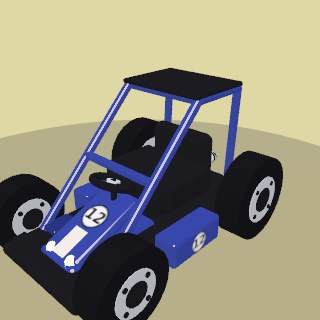
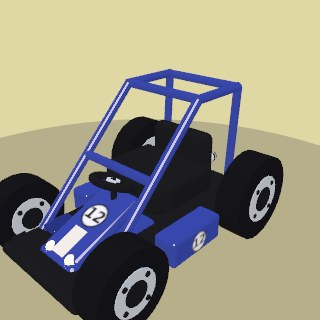
Drop the cage's roof panel — open frame shows the cat
Claude-Session: https://claude.ai/code/session_017fyz1DfGtQ1NoLSq3UX5Bd

diff --git a/src/models.js b/src/models.js
@@ -1506,9 +1506,6 @@ export function createKartModel(bodyColor = 0xe53935, opts = {}) {
           cross.rotation.z = Math.PI / 2;
           cross.position.set(0, cy, cz);
         }
-        // Little canvas roof stretched over the frame (the inspo's sun shade).
-        const roof = add(new THREE.Mesh(rbox(1.78, 0.09, 1.34, 0.04), dark));
-        roof.position.set(0, 2.8, -1.21);
       }
     }
   }
